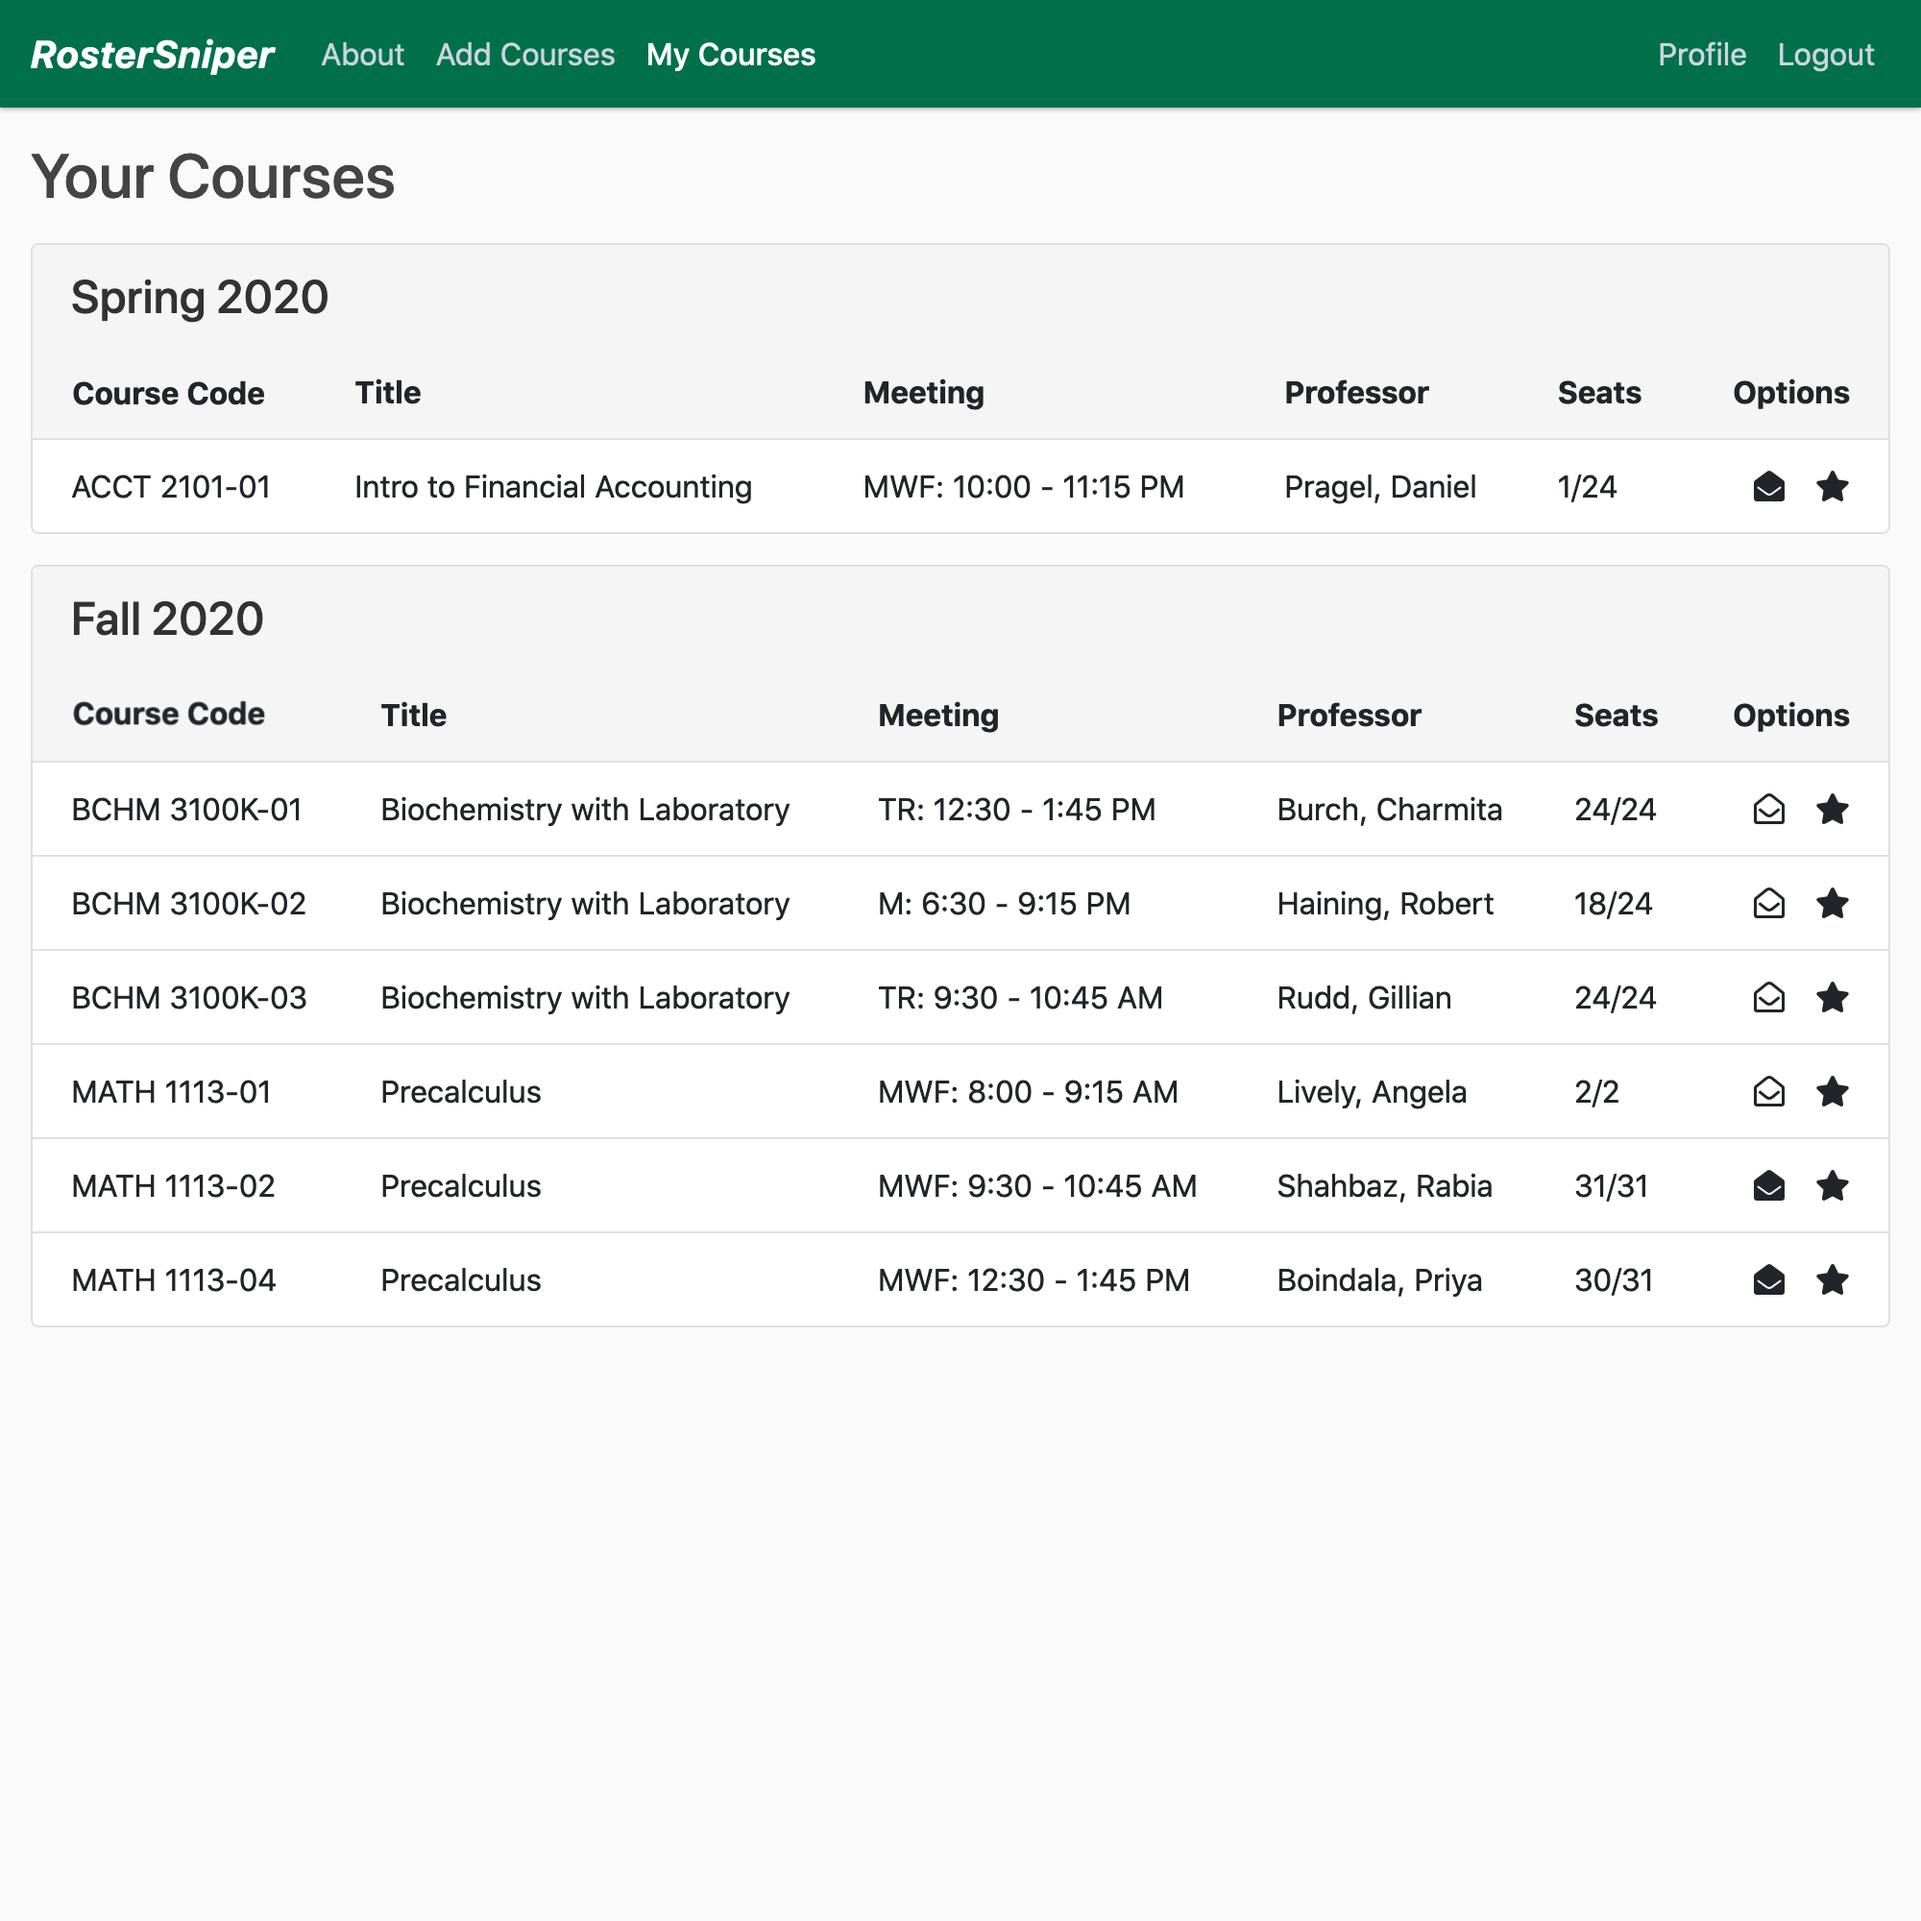
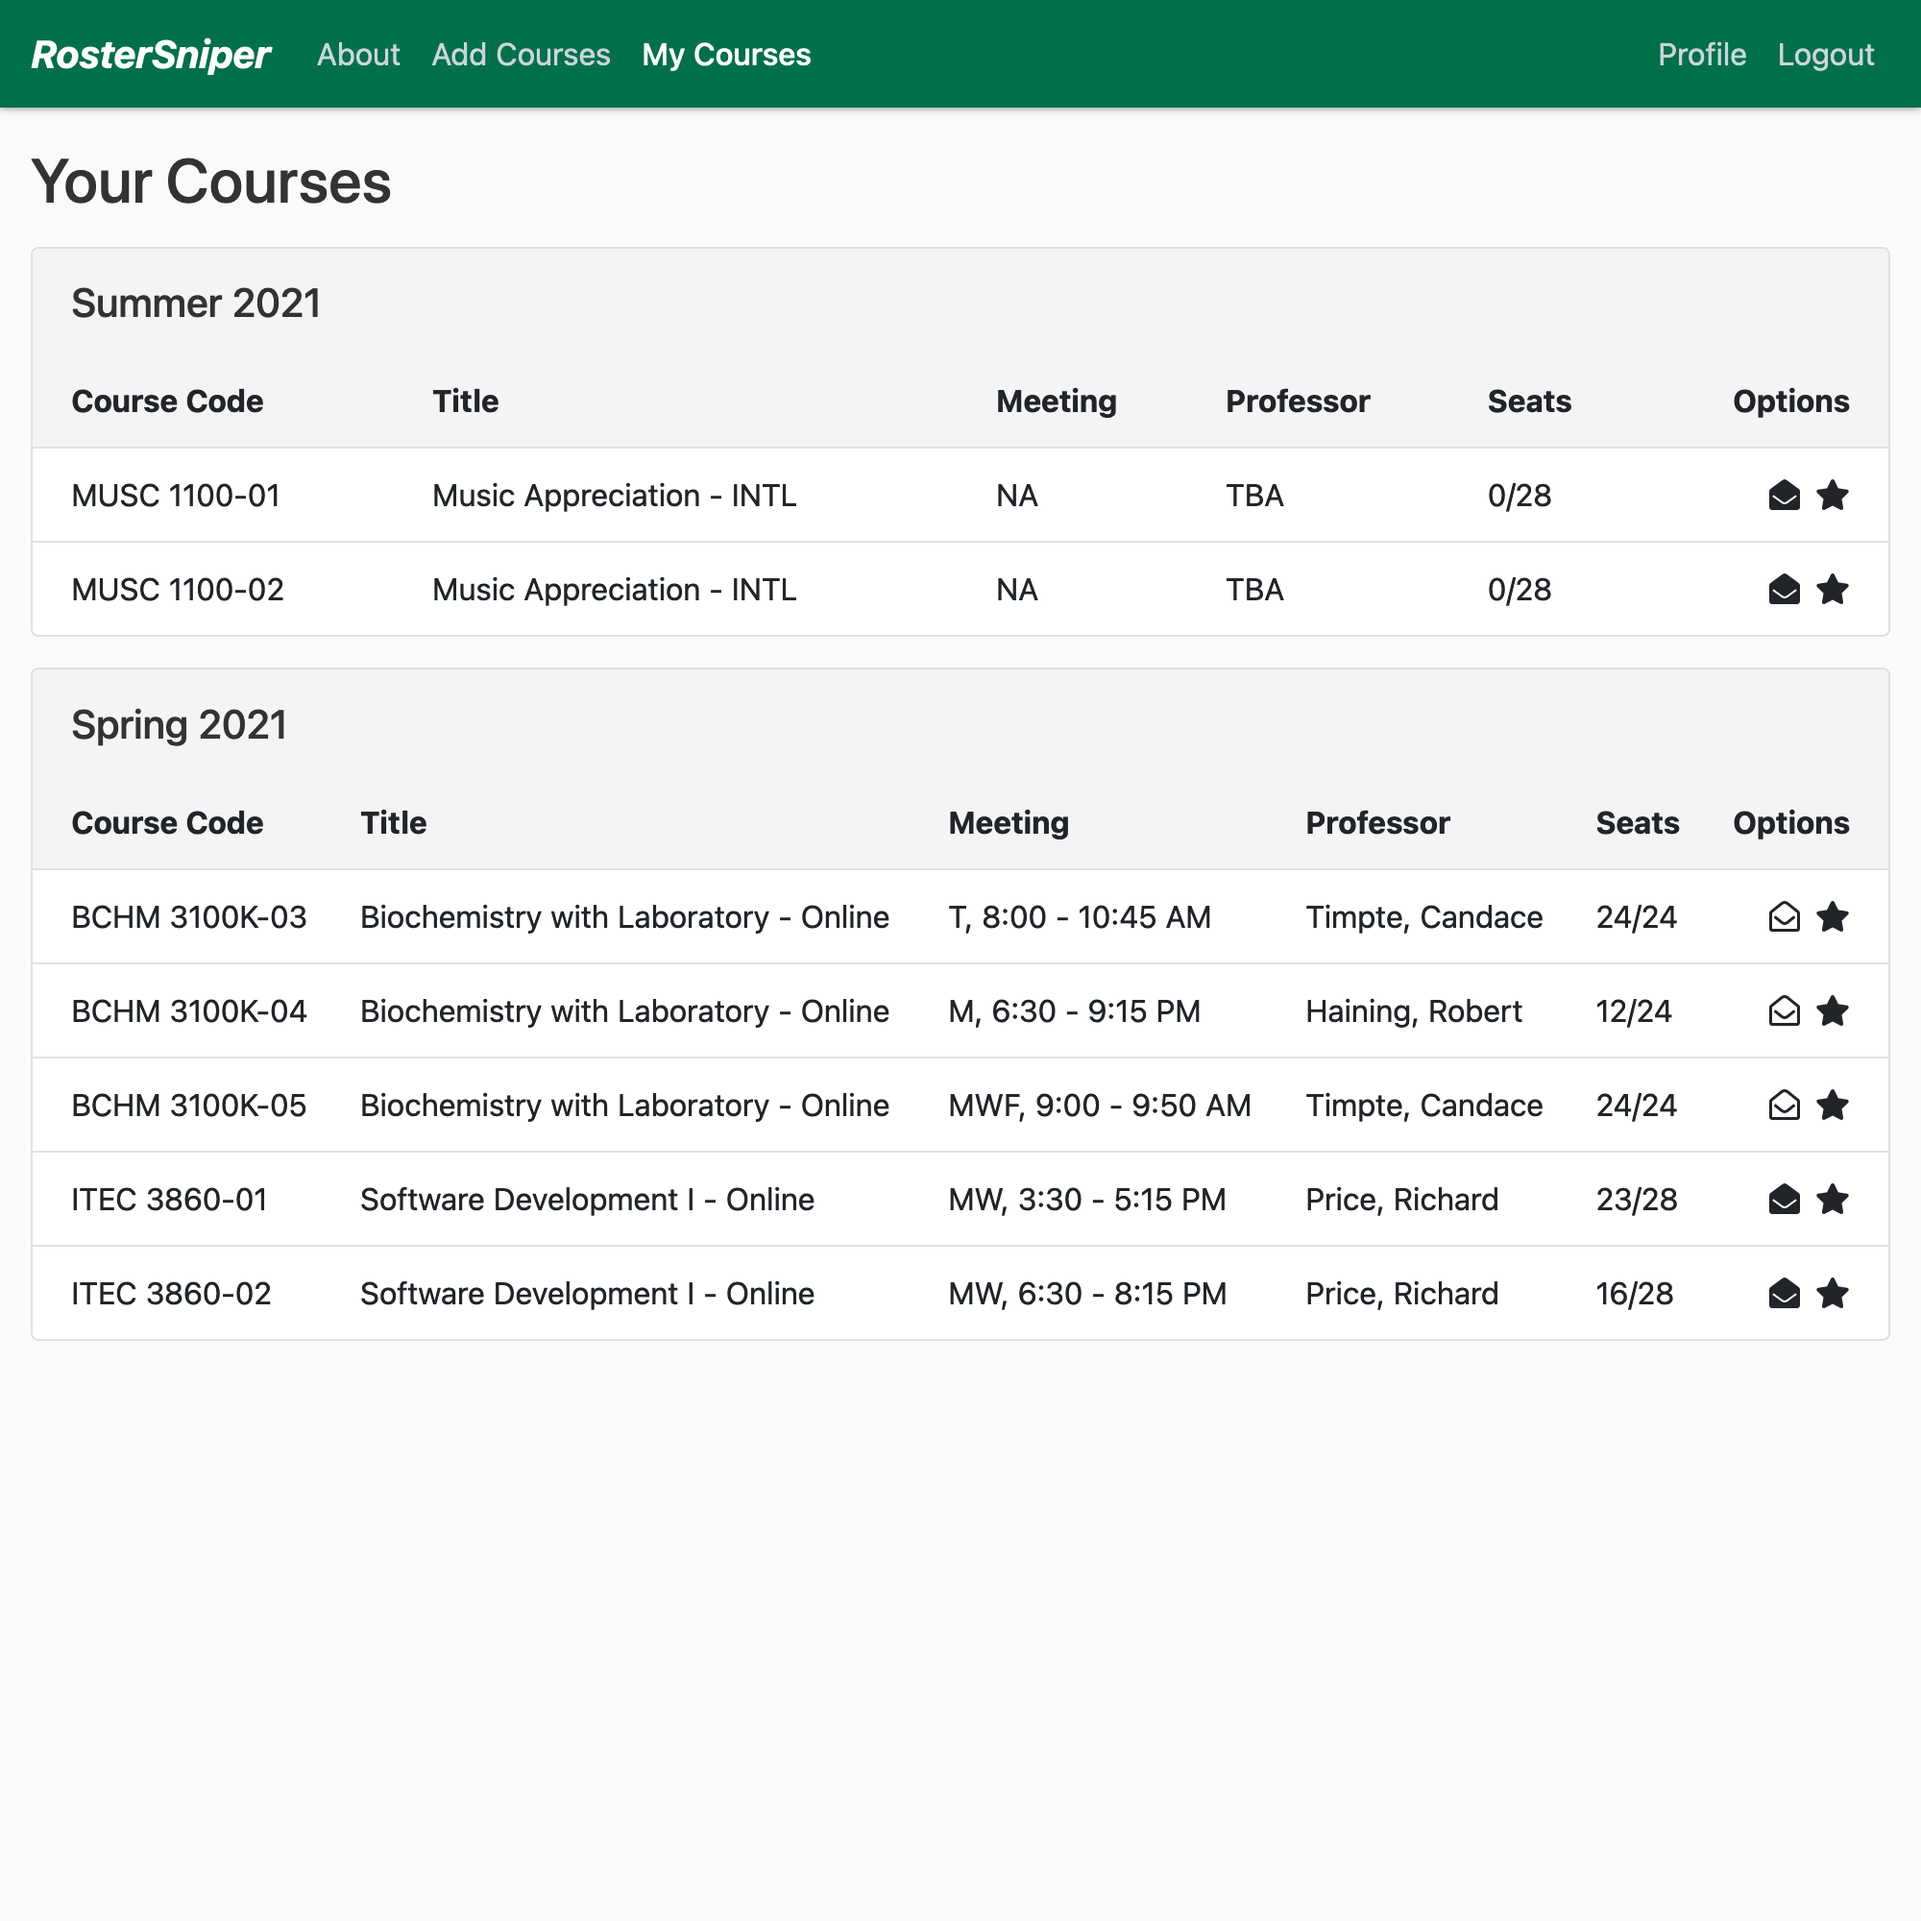
Updated about page and readme images, changed section sort order

diff --git a/django_project/core/migrations/0003_auto_20201128_1922.py b/django_project/core/migrations/0003_auto_20201128_1922.py
@@ -1,0 +1,17 @@
+# Generated by Django 3.1.2 on 2020-11-28 19:22
+
+from django.db import migrations
+
+
+class Migration(migrations.Migration):
+
+    dependencies = [
+        ('core', '0002_auto_20201123_2221'),
+    ]
+
+    operations = [
+        migrations.AlterModelOptions(
+            name='section',
+            options={'ordering': ['term', 'course', 'section_num']},
+        ),
+    ]

diff --git a/django_project/core/models/courses.py b/django_project/core/models/courses.py
@@ -123,7 +123,7 @@ class Section(models.Model):
 	watchers = models.ManyToManyField(User, through='Favorite')
 
 	class Meta:
-		ordering = ['term_id', 'course', 'section_num']
+		ordering = ['term', 'course', 'section_num']
 
 	def get_code(self):
 		# E.g. ITEC 1001-01

diff --git a/README.md b/README.md
@@ -16,10 +16,6 @@ Here is the Add Courses page:
 
 <img src="docs/img/add-courses.png" width="600">
 
-and here is the My Courses page:
-
-<img src="docs/img/my-courses.png" width="600">
-
 ## Installation
 
 The project requires Python 3.8 or higher along with a few packages as described in [requirements.txt](requirements.txt). To install these packages, it is recommended that you first create a virtual environment using a tool such as `venv`. To install the packages listed in requirements.txt, run `pip install -r requirements.txt`.
